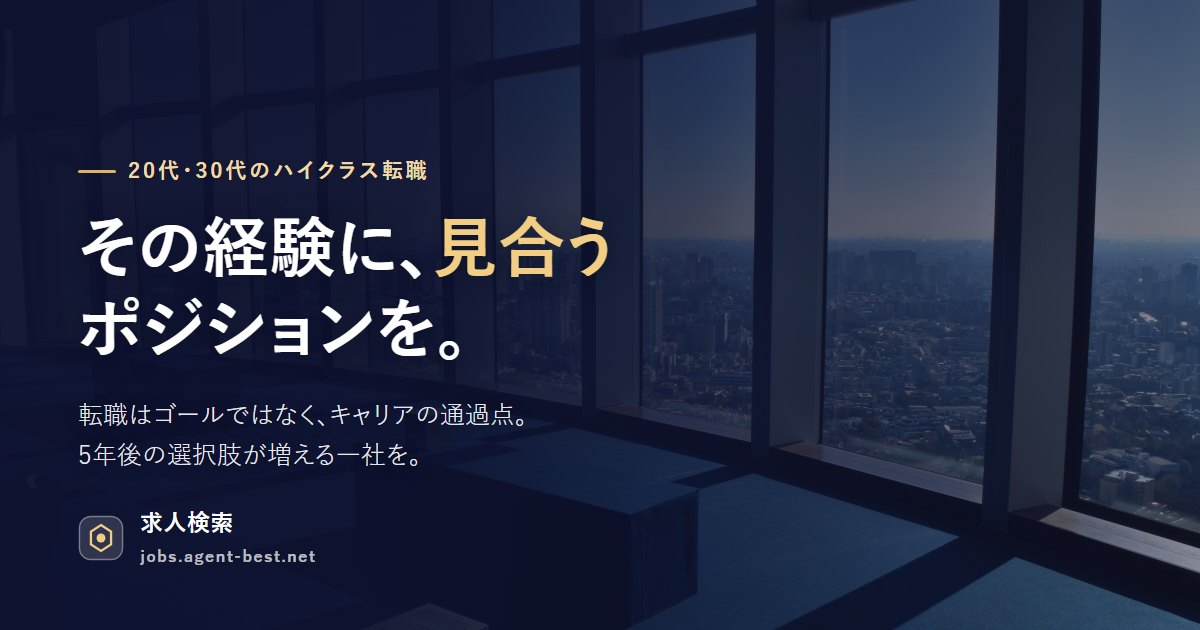
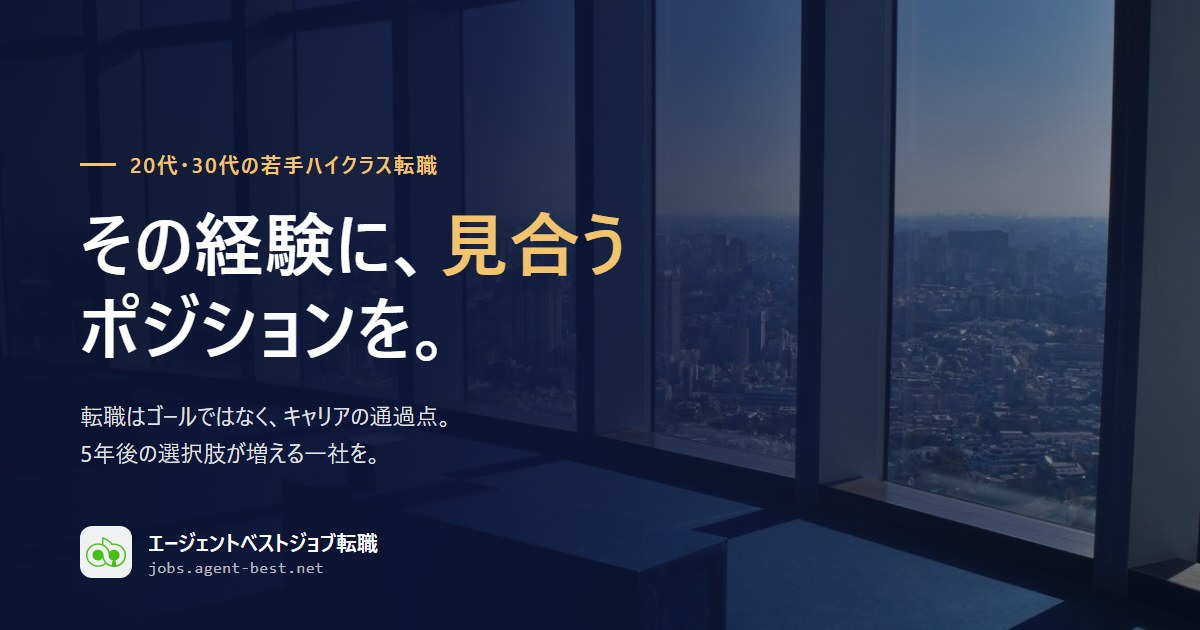
OGP画像（assets/ogp.jpg）を新ロゴ・現在のサービス名に差し替え
- 左下のマークを旧ロゴ（六角形）から新ロゴ（ロゴ素材/dist/mark.png）に変更
- サービス名を現行表記（エージェントベストジョブ転職／学生）に変更（旧画像は「求人検索」「新卒求人検索」のまま）
- 原本 tools/ogp/src.html を追加（Chromeヘッドレスで1200×630を撮影→JPG）
- HTML・テンプレートは変更なし（og:image のURLは同じ）

diff --git a/tools/ogp/src.html b/tools/ogp/src.html
@@ -1,0 +1,32 @@
+<!doctype html>
+<html lang="ja"><head><meta charset="utf-8">
+<!-- OGP画像 assets/ogp.jpg（1200×630）の原本。再出力は Chrome ヘッドレスで PNG に撮って JPG に変換する（手順は skill の tools/ogp と同じ） -->
+<style>
+  html,body{margin:0;width:1200px;height:630px;overflow:hidden}
+  body{font-family:"Yu Gothic UI","Yu Gothic","Meiryo",sans-serif;color:#fff;position:relative;
+    background:url("../../assets/hero.jpg") center/cover no-repeat}
+  .scrim{position:absolute;inset:0;background:linear-gradient(96deg,rgba(12,18,48,.96) 0%,rgba(14,22,58,.90) 38%,rgba(16,26,66,.58) 66%,rgba(18,30,72,.30) 100%)}
+  .in{position:absolute;left:80px;top:150px;right:80px}
+  .eye{font-size:21px;font-weight:700;letter-spacing:.08em;color:#F2C46D;display:flex;align-items:center;gap:14px;margin:0 0 22px}
+  .eye::before{content:"";width:36px;height:3px;background:#F2C46D;display:block}
+  h1{margin:0;font-size:70px;line-height:1.2;font-weight:800;letter-spacing:.01em}
+  h1 em{font-style:normal;color:#F2C46D}
+  .sub{margin:30px 0 0;font-size:23px;line-height:1.6;color:rgba(255,255,255,.88)}
+  .brand{position:absolute;left:80px;bottom:52px;display:flex;align-items:center;gap:16px}
+  .brand .tile{width:52px;height:52px;border-radius:12px;background:rgba(255,255,255,.94);display:flex;align-items:center;justify-content:center}
+  .brand .tile img{width:40px;height:auto;display:block}
+  .brand b{display:block;font-size:21px}
+  .brand span{display:block;font-size:16px;color:rgba(255,255,255,.7);font-family:Consolas,monospace;letter-spacing:.03em;margin-top:2px}
+</style></head>
+<body>
+  <div class="scrim"></div>
+  <div class="in">
+    <p class="eye">20代・30代の若手ハイクラス転職</p>
+    <h1>その経験に、<em>見合う</em><br>ポジションを。</h1>
+    <p class="sub">転職はゴールではなく、キャリアの通過点。<br>5年後の選択肢が増える一社を。</p>
+  </div>
+  <div class="brand">
+    <div class="tile"><img src="../../assets/mark.png" alt=""></div>
+    <div><b>エージェントベストジョブ転職</b><span>jobs.agent-best.net</span></div>
+  </div>
+</body></html>
